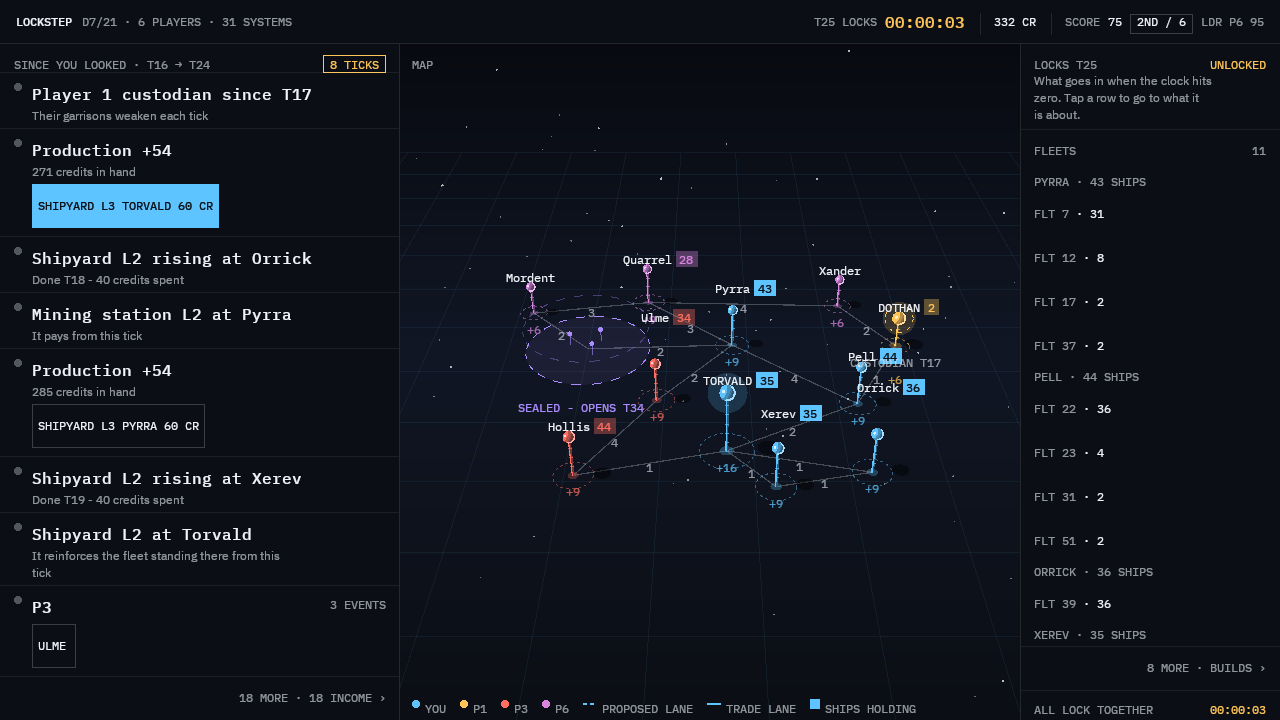
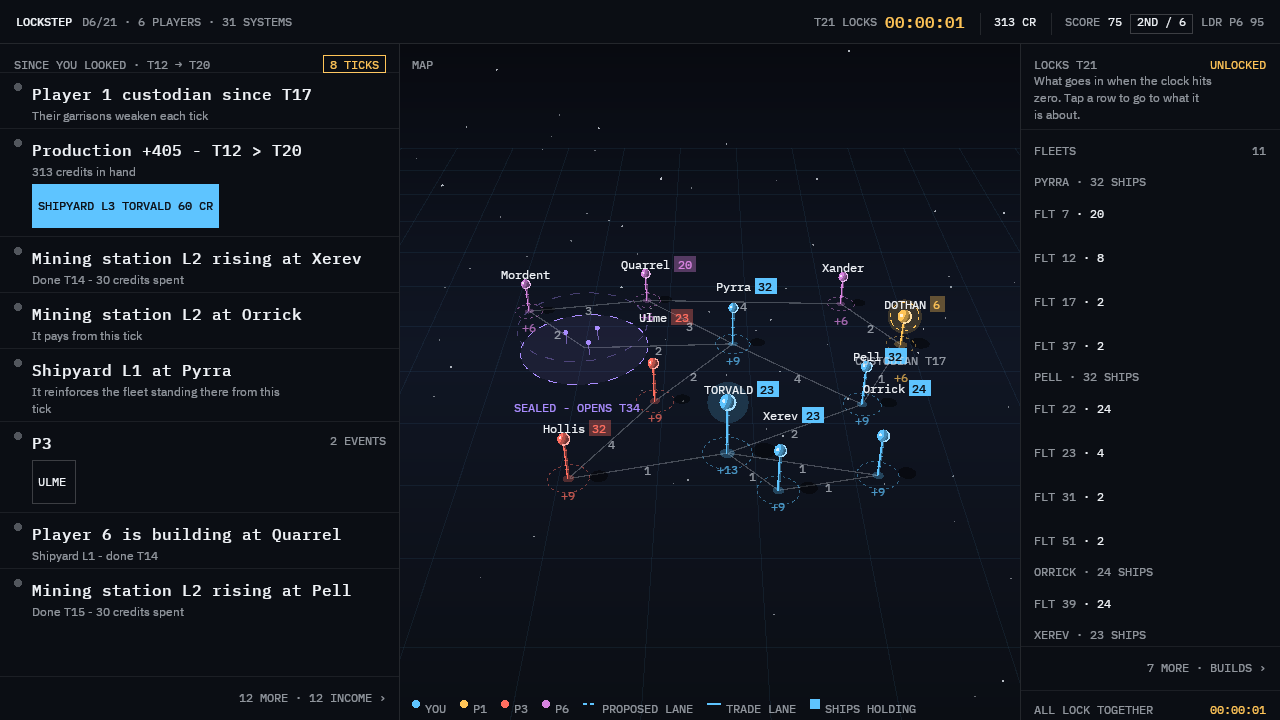
Let a fold reach across a break, anchored at the first occurrence
REPORTED AS A BUG AND IT WAS NOT ONE. Two `Production +54` cards in one SINCE
YOU LOOKED window is exactly what ADR-062 specifies: a run had to be
CONSECUTIVE, `MergeRepeats` runs before ranking over the raw list, and the sort
after it is stable within a consequence rank -- so the interleaving on screen
was the interleaving the fold saw. The code was right and the rule was wrong.

The rule almost never fired on the board it was written for. The window is
per-tick blocks, and a tick that pays income also reports its buildings and its
claims, so two repeats are adjacent only on a tick where nothing else happened
at all -- the quiet board, not the one somebody returns to. Measured from the
capture: `18 MORE · 18 INCOME` over two visible production cards, so twenty
income cards in one eight-tick window and not one of them folded.

So a run is now every event in the window that matches its anchor, wherever it
sits, and the folded card keeps the position of the FIRST of its members.
`MergeRepeats` compares against every open run's anchor rather than against
whichever run happens to be last; the scan is quadratic in a window of a few
hundred and is not worth an index.

Measured after, on the same scenario: one `Production +405 - T12 > T20` with
`313 credits in hand` under it, and the band down to `12 MORE · 12 INCOME` --
the twelve being economy events about different systems, which are not repeats
and are correctly left alone.
[…]

diff --git a/LockstepClient/DigestView.cpp b/LockstepClient/DigestView.cpp
@@ -235,26 +235,52 @@ void NameTheTargets(const MatchState& _state, DigestCard& _card)
 /// **Only for a player who was away** (ADR-062). Within one tick a repeat is two different things
 /// that read alike; across four it is one thing said four times, and the header above already
 /// frames the whole window as one span.
+///
+/// **A run no longer has to be CONSECUTIVE** (ADR-109, amending ADR-062). It did until 2026-09-15,
+/// and on the board a returning player actually has that meant the fold almost never fired: an
+/// eight-tick window was measured carrying twenty unfolded income cards, because production is never
+/// adjacent to itself once anything else happens in the same tick. A run is now every event in the
+/// window that matches, wherever it sits, and the folded card keeps the position of the FIRST of
+/// them.
 void MergeRepeats(const MatchState& _state, std::vector<DigestEvent>& _outEvents, std::vector<std::int32_t>& _outSource)
 {
-  std::vector<std::pair<std::size_t, std::size_t>> runs;
+  // Each run is the digest indices that belong to it, in order, anchored at the first. A vector of
+  // vectors rather than a first/last pair, because members are no longer contiguous.
+  //
+  // The scan is quadratic in the window, which is a few hundred events at ADR-044's eight ticks and
+  // is not worth an index: what it buys is that a new event is compared against every run's ANCHOR
+  // rather than only the run that happens to be open.
+  std::vector<std::vector<std::size_t>> runs;
   for (std::size_t index = 0; index < _state.digest.size(); ++index)
   {
-    const bool folds = _state.unreadTicks >= 2 && !runs.empty() && Repeats(_state.digest[runs.back().second], _state.digest[index]);
-    if (folds)
+    std::vector<std::size_t>* found = nullptr;
+    if (_state.unreadTicks >= 2)
     {
-      runs.back().second = index;
+      for (std::vector<std::size_t>& run : runs)
+      {
+        if (Repeats(_state.digest[run.front()], _state.digest[index]))
+        {
+          found = &run;
+          break;
+        }
+      }
+    }
+
+    if (found != nullptr)
+    {
+      found->push_back(index);
       continue;
     }
-    runs.emplace_back(index, index);
+    runs.push_back({index});
   }
 
-  for (const auto& [first, last] : runs)
+  for (const std::vector<std::size_t>& run : runs)
   {
+    const std::size_t first = run.front();
     DigestEvent merged = _state.digest[first];
     _outSource.push_back(static_cast<std::int32_t>(first));
 
-    if (last > first)
+    if (run.size() > 1)
     {
       // The sum, when the run counts something, and the newest detail either way: `154 credits in
       // hand` is a running total, so the one that is still true is the last.
@@ -262,11 +288,11 @@ void MergeRepeats(const MatchState& _state, std::vector<DigestEvent>& _outEvents
       std::int64_t total = 0;
       if (SplitCount(merged.title, stem, total))
       {
-        for (std::size_t index = first + 1; index <= last; ++index)
+        for (std::size_t member = 1; member < run.size(); ++member)
         {
           std::string other;
           std::int64_t value = 0;
-          if (SplitCount(_state.digest[index].title, other, value))
+          if (SplitCount(_state.digest[run[member]].title, other, value))
           {
             total += value;
           }
@@ -274,13 +300,13 @@ void MergeRepeats(const MatchState& _state, std::vector<DigestEvent>& _outEvents
         merged.title = std::format("{}{}{}", stem, total < 0 ? '-' : '+', total < 0 ? -total : total);
       }
       merged.title += std::format(" - T{} > T{}", _state.lastSeenTick, _state.match.tick);
-      merged.detail = _state.digest[last].detail;
+      merged.detail = _state.digest[run.back()].detail;
 
       // Every action the run offered, once each. A build is offered on exactly one card (ADR-057),
       // and folding two cards into one must not drop the second's button or draw two filled ones.
-      for (std::size_t index = first + 1; index <= last; ++index)
+      for (std::size_t member = 1; member < run.size(); ++member)
       {
-        for (const EventAction& action : _state.digest[index].actions)
+        for (const EventAction& action : _state.digest[run[member]].actions)
         {
           const bool already = std::ranges::any_of(merged.actions, [&action](const EventAction& _mine)
                                                    { return _mine.kind == action.kind && _mine.target == action.target; });

diff --git a/Tests/LockstepTests/DigestViewTests.cpp b/Tests/LockstepTests/DigestViewTests.cpp
@@ -444,6 +444,49 @@ public:
     Assert::AreEqual(std::string{"154 credits in hand"}, cards[0].lines.front(), L"the card kept a stale running total");
   }
 
+  // **The case the fold was missing, and the reason ADR-109 exists.** Production runs every tick and
+  // so does everything else, so in a concatenated window the repeats are never next to each other --
+  // they are separated by whatever else that tick reported. ADR-062 required a run to be
+  // CONSECUTIVE, so on a real board the fold almost never fired: an eight-tick window was measured
+  // on 2026-09-14 carrying twenty unfolded income cards.
+  TEST_METHOD(ARunFoldsEvenWithOtherEventsBetweenItsMembers)
+  {
+    Lockstep::MatchState state = AwayFor({
+      Event(Lockstep::EventKind::Economy, Lockstep::NOBODY, "Production +6"),
+      Event(Lockstep::EventKind::Economy, Lockstep::NOBODY, "Claimed Vega"),
+      Event(Lockstep::EventKind::Economy, Lockstep::NOBODY, "Production +7"),
+      Event(Lockstep::EventKind::Economy, Lockstep::NOBODY, "Mining station L2 at Pell"),
+      Event(Lockstep::EventKind::Economy, Lockstep::NOBODY, "Production +8"),
+    });
+    state.digest[4].detail = "154 credits in hand";
+
+    const std::vector<Lockstep::DigestCard> cards = Lockstep::CardsOf(state);
+    Assert::AreEqual(std::size_t{3}, cards.size(), L"the three production lines did not fold across what sat between them");
+
+    // **At the FIRST occurrence** (ADR-109): the fold keeps the position of the earliest of its
+    // members, so the window still reads oldest first and nothing is reordered around it.
+    Assert::AreEqual(std::string{"Production +21 - T6 > T9"}, cards[0].title, L"the fold is not where the run began, or did not sum");
+    Assert::AreEqual(std::string{"154 credits in hand"}, cards[0].lines.front(), L"the fold kept a stale running total");
+    Assert::AreEqual(std::string{"Claimed Vega"}, cards[1].title, L"what sat between the repeats was disturbed");
+    Assert::AreEqual(std::string{"Mining station L2 at Pell"}, cards[2].title);
+  }
+
+  // Two runs of different things interleaved stay two runs, which is what makes the anchor a
+  // comparison against each run rather than against whichever one is open.
+  TEST_METHOD(TwoInterleavedRunsFoldIntoTwoCards)
+  {
+    const std::vector<Lockstep::DigestCard> cards = Lockstep::CardsOf(AwayFor({
+      Event(Lockstep::EventKind::Economy, Lockstep::NOBODY, "Production +6"),
+      Event(Lockstep::EventKind::Economy, Lockstep::NOBODY, "Scouting +1"),
+      Event(Lockstep::EventKind::Economy, Lockstep::NOBODY, "Production +6"),
+      Event(Lockstep::EventKind::Economy, Lockstep::NOBODY, "Scouting +1"),
+    }));
+
+    Assert::AreEqual(std::size_t{2}, cards.size(), L"two interleaved runs did not fold into two cards");
+    Assert::AreEqual(std::string{"Production +12 - T6 > T9"}, cards[0].title);
+    Assert::AreEqual(std::string{"Scouting +2 - T6 > T9"}, cards[1].title);
+  }
+
   TEST_METHOD(APlayerWhoMissedNothingSeesEveryLine)
   {
     // Within one tick two production lines would be two different things that read alike, and the

diff --git a/Design/ADR/ADR-109-a-run-does-not-have-to-be-consecutive.md b/Design/ADR/ADR-109-a-run-does-not-have-to-be-consecutive.md
@@ -1,0 +1,131 @@
+# ADR-109 — A run of repeats does not have to be consecutive
+
+**Status:** Accepted
+
+**Date:** 2026-09-15
+**Decided by:** Owner decision, on `08-missed-digests.png`: *"fold across breaks, first occurrence."*
+**Supersedes:** — (amends ADR-062, and answers its second open question)
+
+---
+
+## Context
+
+ADR-062 folds a run of repeated events under `SINCE YOU LOOKED` into one card carrying the total and
+the window's span, so that four ticks away read as a summary rather than as a transcript. It bounded
+the fold three ways, and one of them was this: *"A run is consecutive, same kind, same actor, same
+system, same title. Consecutive in the concatenated list, which is per-tick blocks oldest first, so
+anything that happened between two repeats breaks the run and the run is a genuine stretch of
+nothing else happening."*
+
+**On the board the fold was written for, that condition is almost never met.** The concatenated
+window is per-tick blocks, and a tick that produces income also produces everything else that
+happened in it. So tick 16's production line is followed by tick 16's buildings and claims, and only
+then by tick 17's production. Two repeats are adjacent only when a tick reported nothing else at
+all — which is the quiet board, not the one somebody comes back to after eight ticks away.
+
+**Measured on 2026-09-14**, from a client that missed eight ticks of a six-seat match: the digest's
+page band read `18 MORE · 18 INCOME` over two visible `Production +54` cards, so the window carried
+**twenty income cards and folded none of them**. That is the failure ADR-062 exists to remove — "about
+170 pixels of a 676-pixel column spent saying one thing four times, in front of the reader who has
+the most to catch up on" — surviving the decision that was supposed to remove it.
+
+It was reported as a defect and it was not one: the code does exactly what ADR-062 specifies.
+`MergeRepeats` runs before ranking, over the raw list, and the sort after it is stable within a
+consequence rank, so the interleaving seen on screen is the interleaving the fold saw. What was
+wrong was the rule.
+
+## Options considered
+
+### A. Leave it, and treat the consecutiveness rule as correct
+
+The window stays a strict transcript: cards appear in the order the ticks produced them, and a fold
+only ever collapses a stretch where genuinely nothing else happened. It is the most literal thing
+the client can do and it is what ADR-062 chose deliberately.
+
+It costs the whole point of the fold. Twenty income cards is the measurement, and a decision that
+fires on the quiet board and not the busy one is a decision that fires when it is not needed.
+
+### B. Fold across breaks, card at the run's FIRST occurrence
+
+A run becomes every event in the window that matches, wherever it sits, and the folded card keeps
+the position of the earliest of them.
+
+The cost is the one ADR-062 named: the window is no longer a transcript in order, because a card
+labelled `T12 → T20` sits among tick 12's events while carrying tick 20's numbers. What makes that
+acceptable is that the concatenated window is already not a narrative — it is blocks of ticks under a
+header that frames all of them as one span, and ADR-062's own title for the fold is a span.
+
+### C. Fold across breaks, card at the run's LAST occurrence
+
+The summary sits near the most recent news, which is where a reader who scrolled to the bottom would
+look for it. It is stranger on the page: a card that says `T12 → T20` sitting among tick 20's events
+reads as something that happened at tick 20.
+
+### D. Reorder the window so repeats become consecutive, then fold
+
+Keeps ADR-062's rule by making it true. It is the largest change and the one that actually destroys
+the ordering, because every event moves rather than one card staying put.
+
+## Decision
+
+**B.** A run is every event in the window that matches its anchor — same kind, same actor, same
+system, and the same title stem — regardless of what sits between them, and the folded card keeps the
+position of the FIRST of its members.
+
+`MergeRepeats` compares each event against every open run's ANCHOR rather than against whichever run
+happens to be last. The scan is quadratic in the window, which at ADR-044's eight ticks is a few
+hundred events and is not worth an index.
+
+**Every other bound of ADR-062 stands unchanged.** The fold is still gated on `unreadTicks >= 2`, so
+a tick's own digest is never touched. A contact, a capture, a proposal and anything carrying a
+verdict are still excluded outright. The sum still needs a sign, so `Claimed Vega 7` and `Claimed
+Vega 9` are still two cards. The span is still the window's. A fold still carries every control its
+members offered, once each, with at most one filled button.
+
+**What this gives up is stated plainly:** the window stops being a transcript in order. A reader who
+wants to know which tick a particular production line landed in cannot get it from the card, and
+could not before either — ADR-062 already declined to stamp a `DigestEntry` with its tick, and that
+is still where per-tick detail belongs.
+
+## Consequences
+
+**Measured on the same scenario after the change**: the window's twenty income cards became one
+`Production +405 - T12 > T20` with `313 credits in hand` under it, and the page band fell from
+`18 MORE · 18 INCOME` to `12 MORE · 12 INCOME` — the twelve that remain being economy events about
+different systems, which are not repeats of each other and are correctly left alone.
+
+**A folded card can now be far from the events it summarises**, and there is no line saying so. The
+card's own title carries the span, which is the same claim the header four lines above it makes.
+
+**Two runs interleaved stay two runs**, which is what the anchor comparison buys: production and
+scouting alternating fold into one card each rather than into one card or none.
+
+**Nothing changes for a player who is up to date**, which is most players most of the time, and
+nothing changes for the delta box, which still counts the raw list.
+
+## What this changes elsewhere
+
+- **Design/:** `UI/SCREENS.md` 08 and `DESIGN-GUIDELINES.md` "Copy" — the fold no longer says
+  consecutive; `08-missed-digests.png` retaken to show a fold rather than the absence of one. Done in
+  this commit.
+- **Code:** `LockstepClient/DigestView.cpp` — `MergeRepeats` only. `Repeats`, `SplitCount` and
+  `CanMerge` are untouched, which is the point: what changed is which pairs are offered to them.
+- **Tests:** `LockstepTests/MergedRepeatTests` gains `ARunFoldsEvenWithOtherEventsBetweenItsMembers`
+  and `TwoInterleavedRunsFoldIntoTwoCards`. Every existing case in that class still passes unedited,
+  which is the evidence that the bounds did not move.
+- **AGENTS.md:** nothing.
+
+## Open questions
+
+**Whether a fold should say how many of the window's ticks it covers.** ADR-062 left this open and it
+is sharper now: `Production +405 - T12 > T20` could be nine ticks of forty-five or two of two
+hundred, and a card that reaches across breaks has more to hide than one that did not. It is a wire
+field (`DigestEntry` carries no tick) and ADR-044's tabs are still where per-tick detail belongs.
+
+**Whether the anchor should be the first or the newest member for MATCHING.** It is the first today,
+so a run's identity is fixed by its earliest event. For a title stem that never varies this is the
+same either way; it would matter if a stem could drift within a window, and none does.
+
+**Whether the twelve economy cards that remain should group.** They are different systems' buildings
+and are correctly not repeats, but twelve of them is still twelve cards. Grouping by KIND rather
+than by repetition is a different decision and a larger one.

diff --git a/Design/UI/SCREENS.md b/Design/UI/SCREENS.md
@@ -372,11 +372,17 @@ into one list, and when the new state is two or more ticks past that the header 
 LOOKED · T4 → T7` with a `3 TICKS` chip and the four-cell delta counted over that list. Ranking and
 grouping run over the whole window, so a rival busy across three ticks is one actor card.
 
-**Repeats are folded (ADR-062).** In that window only, a run of consecutive events of the same kind
-about the same subject becomes one card: `PRODUCTION +18 - T6 > T9`, detail from the newest of them
-(`154 credits in hand`), every control the run offered carried across once. Never a contact, a
+**Repeats are folded (ADR-062, ADR-109).** In that window only, every event of the same kind about
+the same subject becomes one card: `PRODUCTION +405 - T12 > T20`, detail from the newest of them
+(`313 credits in hand`), every control the run offered carried across once. Never a contact, a
 capture, a proposal or anything carrying a verdict, and a title's trailing digits are summed only
 when a `+` or `-` introduces them. The delta box still counts the raw digest.
+**A run is not required to be consecutive and was until 2026-09-15** (ADR-109). It had to be, and
+since the window is per-tick blocks — a tick that pays income also reports its buildings and claims —
+two repeats were adjacent only on a tick where nothing else happened at all. The fold therefore fired
+on the quiet board and not on the one a returning player has: `08-missed-digests.png` carried twenty
+unfolded income cards before the change and one folded card after it. **The card keeps the position
+of the FIRST of its members**, so nothing around it is reordered.
 
 Not built: the per-tick tabs (`T44 · 5 | T45 · 4 | T46 · 7`), the `3 TICKS WAITING · 16 EVENTS`
 header, older ticks collapsed at the bottom with `OPEN >`, and marking a tick read. Two limits are

diff --git a/Design/UI/DESIGN-GUIDELINES.md b/Design/UI/DESIGN-GUIDELINES.md
@@ -355,6 +355,10 @@ Semantic / owner (ADR-027: you are always blue)
   in the title when they lead.
 - Under `SINCE YOU LOOKED` only, fold a run of repeats into one card with the total and the window's
   span — `PRODUCTION +18 - T6 > T9` (ADR-062). Never a contact, a capture, a proposal or a verdict.
+  **A run does NOT have to be consecutive** (ADR-109): it is every matching event in the window
+  wherever it sits, and the card keeps the position of the first of them. Requiring consecutiveness
+  meant the fold almost never fired — measured at twenty unfolded income cards in one eight-tick
+  window, because a tick that produces income also produces everything else that happened in it.
 - Combat preview is a verdict: `FLT1 ARRIVES T47 - YOU LOSE` / `YOU WIN` / `HOLD`, then
   `You arrive 14. P3 holds 11 +def. 6 of theirs remain, 0 of yours.` Never a bare `A v B`. The
   destination sheet says what is standing on a candidate (`P3 - 11 +DEF`) and not how it would go:
